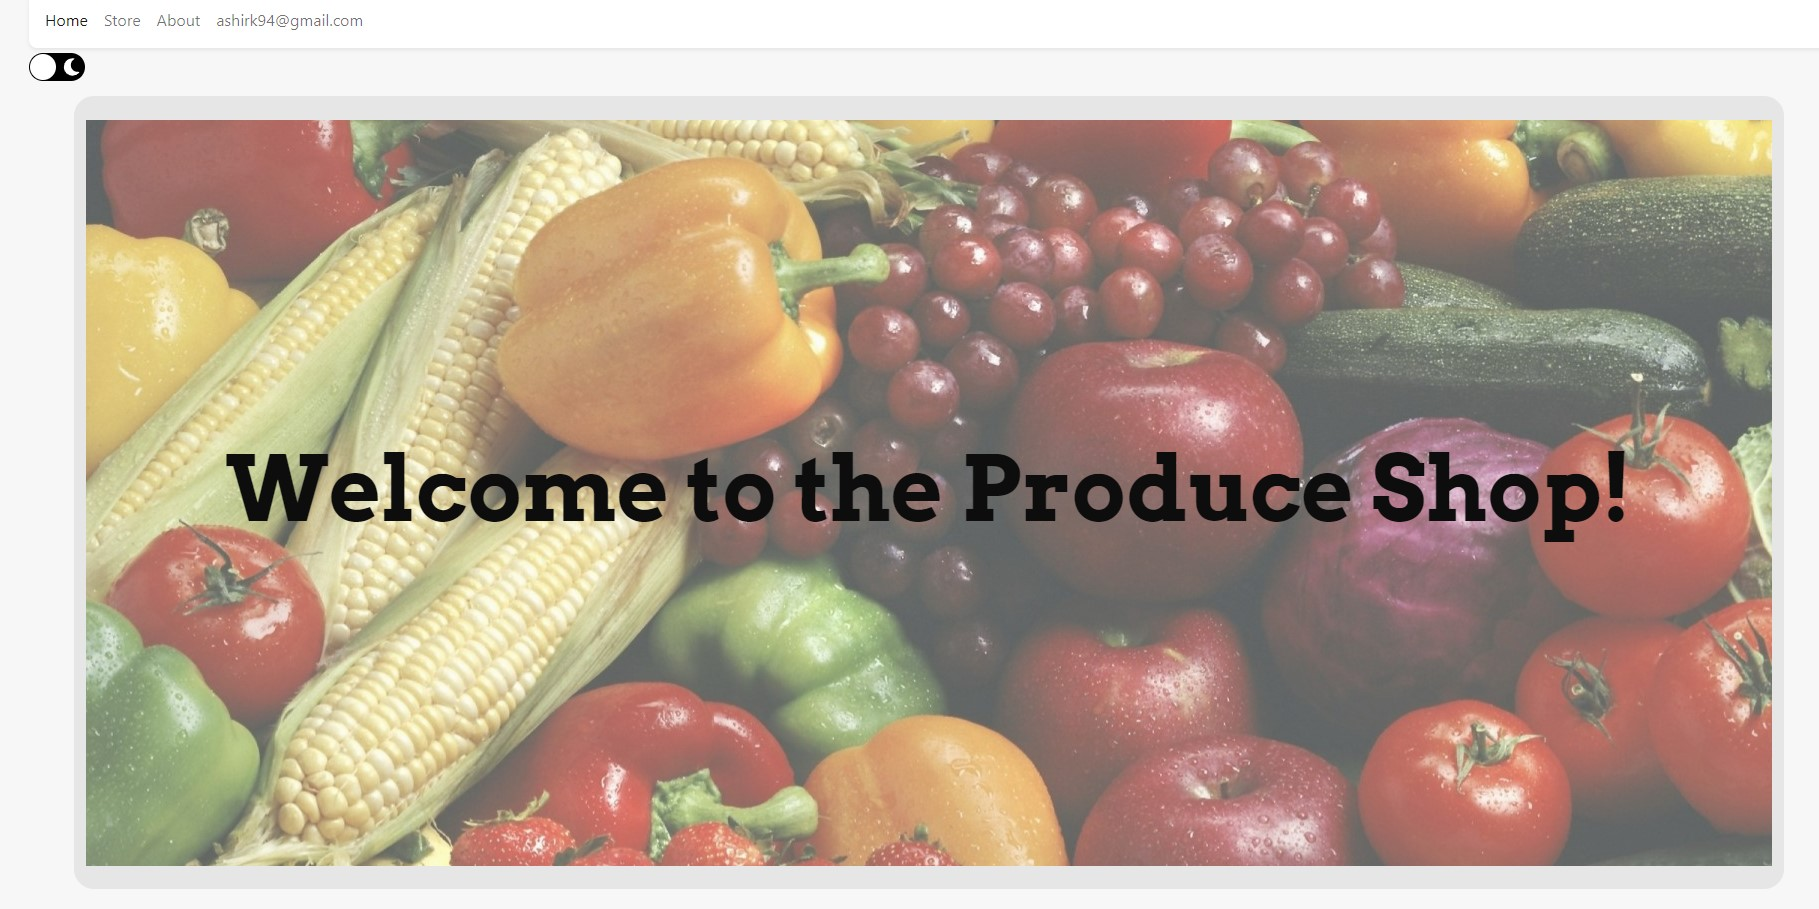
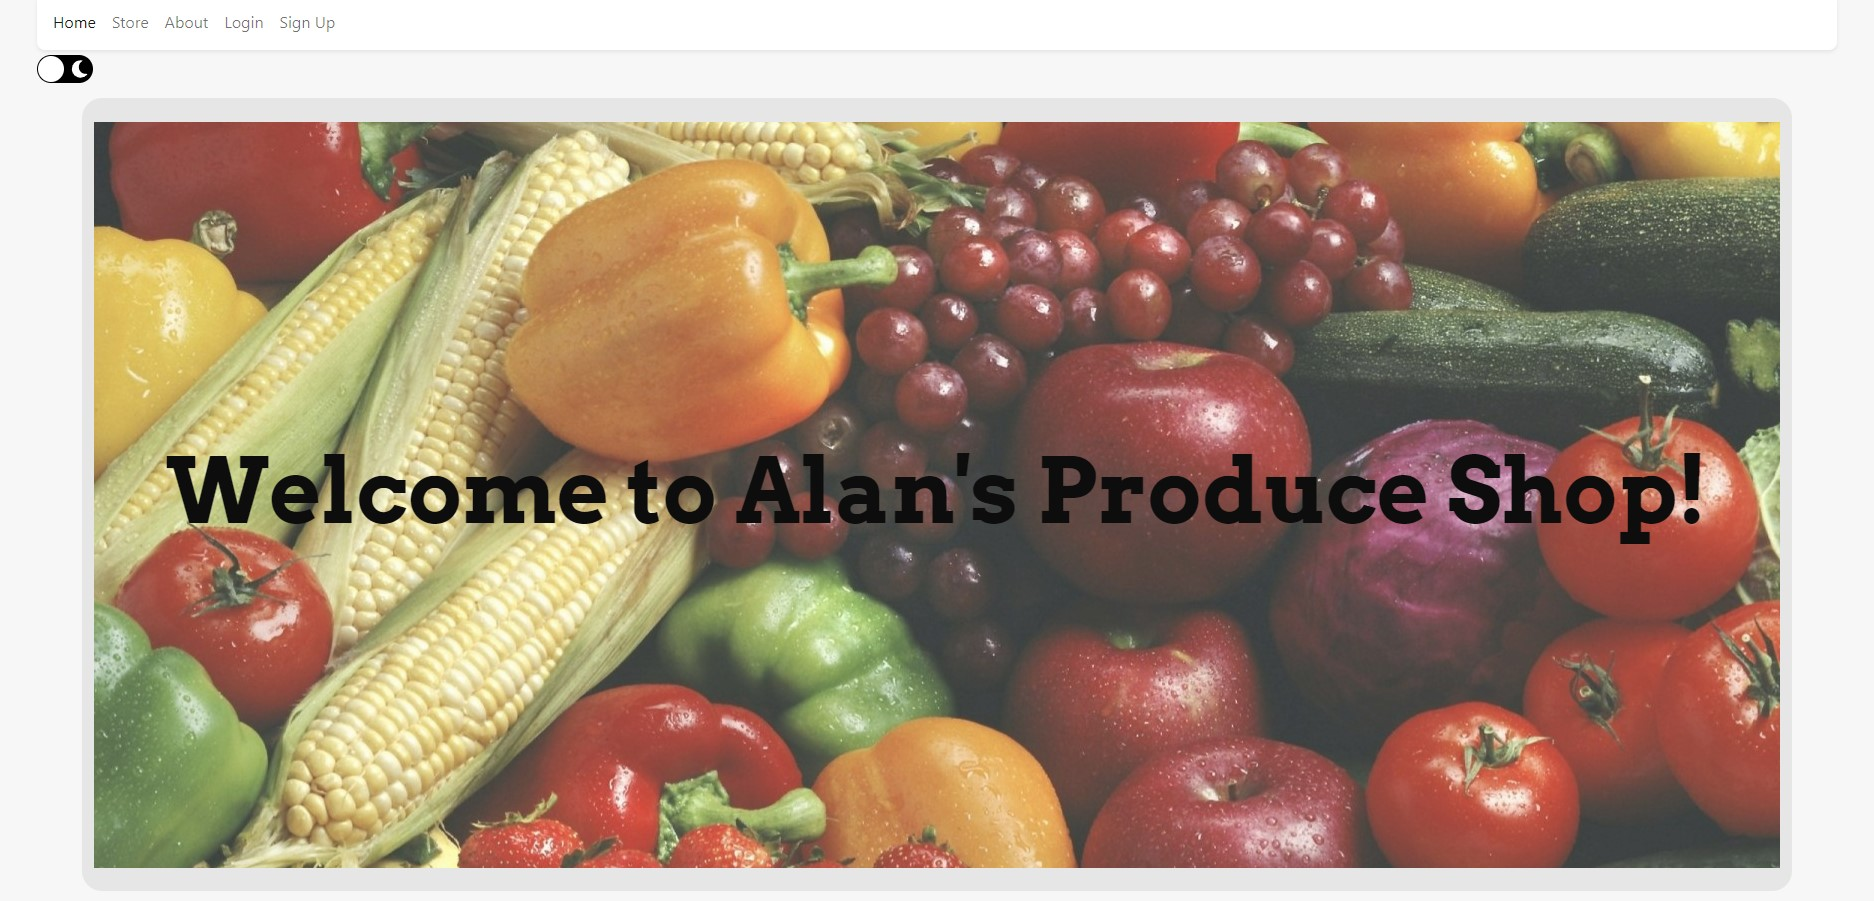
Image links and font sizes

diff --git a/src/components/portfolio.js b/src/components/portfolio.js
@@ -4,6 +4,7 @@ import scandinavianFood from '../assets/images/scandinavianfood.jpg'
 import produceShop from '../assets/images/produceShop.jpg'
 
 const Portfolio = () => {
+	//make images links
 	return (
 		<div>
 			<div className='portfolio'>
@@ -17,10 +18,15 @@ const Portfolio = () => {
 							rel='noreferrer'>
 							Produce Shop
 						</a>
-						<img
-							className='image'
-							src={produceShop}
-							alt='Produce Shop'></img>
+						<a
+							href='https://main.d29j317vl7nv5o.amplifyapp.com/'
+							target='_blank'
+							rel='noreferrer'>
+							<img
+								className='image'
+								src={produceShop}
+								alt='Produce Shop'></img>
+						</a>
 					</div>
 					<div className='item'>
 						<a
@@ -30,10 +36,15 @@ const Portfolio = () => {
 							rel='noreferrer'>
 							RentTech
 						</a>
-						<img
-							className='image'
-							src={rentTech}
-							alt='RentTech'></img>
+						<a
+							href='https://tech-rental.azurewebsites.net/'
+							target='_blank'
+							rel='noreferrer'>
+							<img
+								className='image'
+								src={rentTech}
+								alt='RentTech'></img>
+						</a>
 					</div>
 					<div className='item'>
 						<a
@@ -43,10 +54,15 @@ const Portfolio = () => {
 							rel='noreferrer'>
 							MyGameList
 						</a>
-						<img
-							className='image'
-							src={myGameList}
-							alt='MyGameList'></img>
+						<a
+							href='http://mygamelist-env.eba-pjfkzxaf.us-west-2.elasticbeanstalk.com/'
+							target='_blank'
+							rel='noreferrer'>
+							<img
+								className='image'
+								src={myGameList}
+								alt='MyGameList'></img>
+						</a>
 					</div>
 					<div className='item'>
 						<a
@@ -56,10 +72,15 @@ const Portfolio = () => {
 							rel='noreferrer'>
 							ScandinavianFood
 						</a>
-						<img
-							className='image'
-							src={scandinavianFood}
-							alt='ScandinavianFood'></img>
+						<a
+							href='https://scandinavian-food.azurewebsites.net/'
+							target='_blank'
+							rel='noreferrer'>
+							<img
+								className='image'
+								src={scandinavianFood}
+								alt='ScandinavianFood'></img>
+						</a>
 					</div>
 				</div>
 			</div>

diff --git a/src/components/about.js b/src/components/about.js
@@ -4,11 +4,11 @@ const About = () => {
 		<div className='about'>
 			<h2>About Me</h2>
             <div className='container'>
-            <p className='text'>I am a friendly, motivated, and detail oriented Software Developer with over 2 years of experience writing code and building web applications. I specialize in JavaScript, the .NET framework, and React. This June I graduated with an AAS in Computer Programming. During the final term of the degree I became a Web Development Intern at the Oregon Criminal Defense Lawyers Association.
+            <p className='text'>I am a Software Developer with over 2 years of experience writing code and building web applications. I specialize in JavaScript, the .NET framework, and React. This June I graduated with an AAS in Computer Programming. During the final term of the degree I became a Web Development Intern at OCDLA, the Oregon Criminal Defense Lawyers Association.
             <br/><br/>
-            I began coding years ago and spent several months working on a side scroller adventure game in GameMaker Studio. My passion was ignited anew when I took my first C++ programming class in college. Since then I have been eagerly learning various topics, languages, and frameworks in Software Development. Check out my projects page and my GitHub profile to see what I've been building so far!
+            I began coding years ago and spent several months working on a side scroller adventure game in GameMaker Studio. My passion was ignited anew when I took my first C++ programming class in college. Since then I have been eagerly learning various topics, languages, and frameworks in Software Development. Check out the projects page and my GitHub profile to see what I've been building so far!
             <br/><br/>
-            When I'm not coding you can usually find me gaming, going out with friends, or hiking in Oregon's beautiful nature. I'm so excited to be a part of the Software Development industry!</p>
+            In my free time I enjoy gaming, going out with friends, and hiking in Oregon's beautiful nature. </p>
             </div>
 		</div>
 	</div>

diff --git a/src/styles/portfolio.scss b/src/styles/portfolio.scss
@@ -6,7 +6,7 @@
 
 	h2 {
         font-family: 'Coolvetica';
-		font-size: calc(3rem + 5vw) !important;
+		font-size: calc(50px + 3vw) !important;
 		margin: 0 auto;
         margin-bottom: -30px !important;
 		font-weight: 400;
@@ -69,11 +69,10 @@
 {
     .portfolio {
         .item {
-            height: 300px;
-            margin-top: 0px;
+            height: 240px;
         }
         .link-zone {
-            margin-top: 0px;
+            margin-top: 0px !important;
             .links {
                 font-size: 38px;
             }

diff --git a/src/styles/contact.scss b/src/styles/contact.scss
@@ -7,9 +7,10 @@
 
 	h2 {
 		color: hsl(0, 100%, 70%);
-		font-size: calc(3rem + 5vw) !important;
+		font-size: calc(50px + 3vw) !important;
 		font-weight: 500;
         margin-top: 70px !important;
+        margin-bottom: 130px;
 	}
 	.text {
 		display: inline-block;
@@ -117,6 +118,7 @@
         }
         h2 {
             font-size: 60px !important;
+            margin-bottom: 40px !important;
         }
     }
 

diff --git a/src/styles/about.scss b/src/styles/about.scss
@@ -14,7 +14,7 @@
     .text {
 		display: inline-block;
 		color: white;
-		font-size: 1.7vmax;
+		font-size: 1.75vmax;
 		margin: 0 auto;
 		font-weight: 500;
 	}
@@ -28,7 +28,7 @@
 	}
 
 	h2 {
-		font-size: calc(3rem + 5vw) !important;
+		font-size: calc(50px + 3vw) !important;
 		margin: 10px auto !important;
 		font-weight: 400;
 		color: hsl(0, 100%, 70%);

diff --git a/public/index.html b/public/index.html
@@ -2,7 +2,7 @@
 <html lang="en">
   <head>
     <meta charset="utf-8" />
-    <link rel="icon" href="%PUBLIC_URL%/knight2.jpg" />
+    <link rel="icon" href="%PUBLIC_URL%/knightLogo.jpg" />
     <meta name="viewport" content="width=device-width, initial-scale=1" />
     <meta name="theme-color" content="black" />
     <meta
